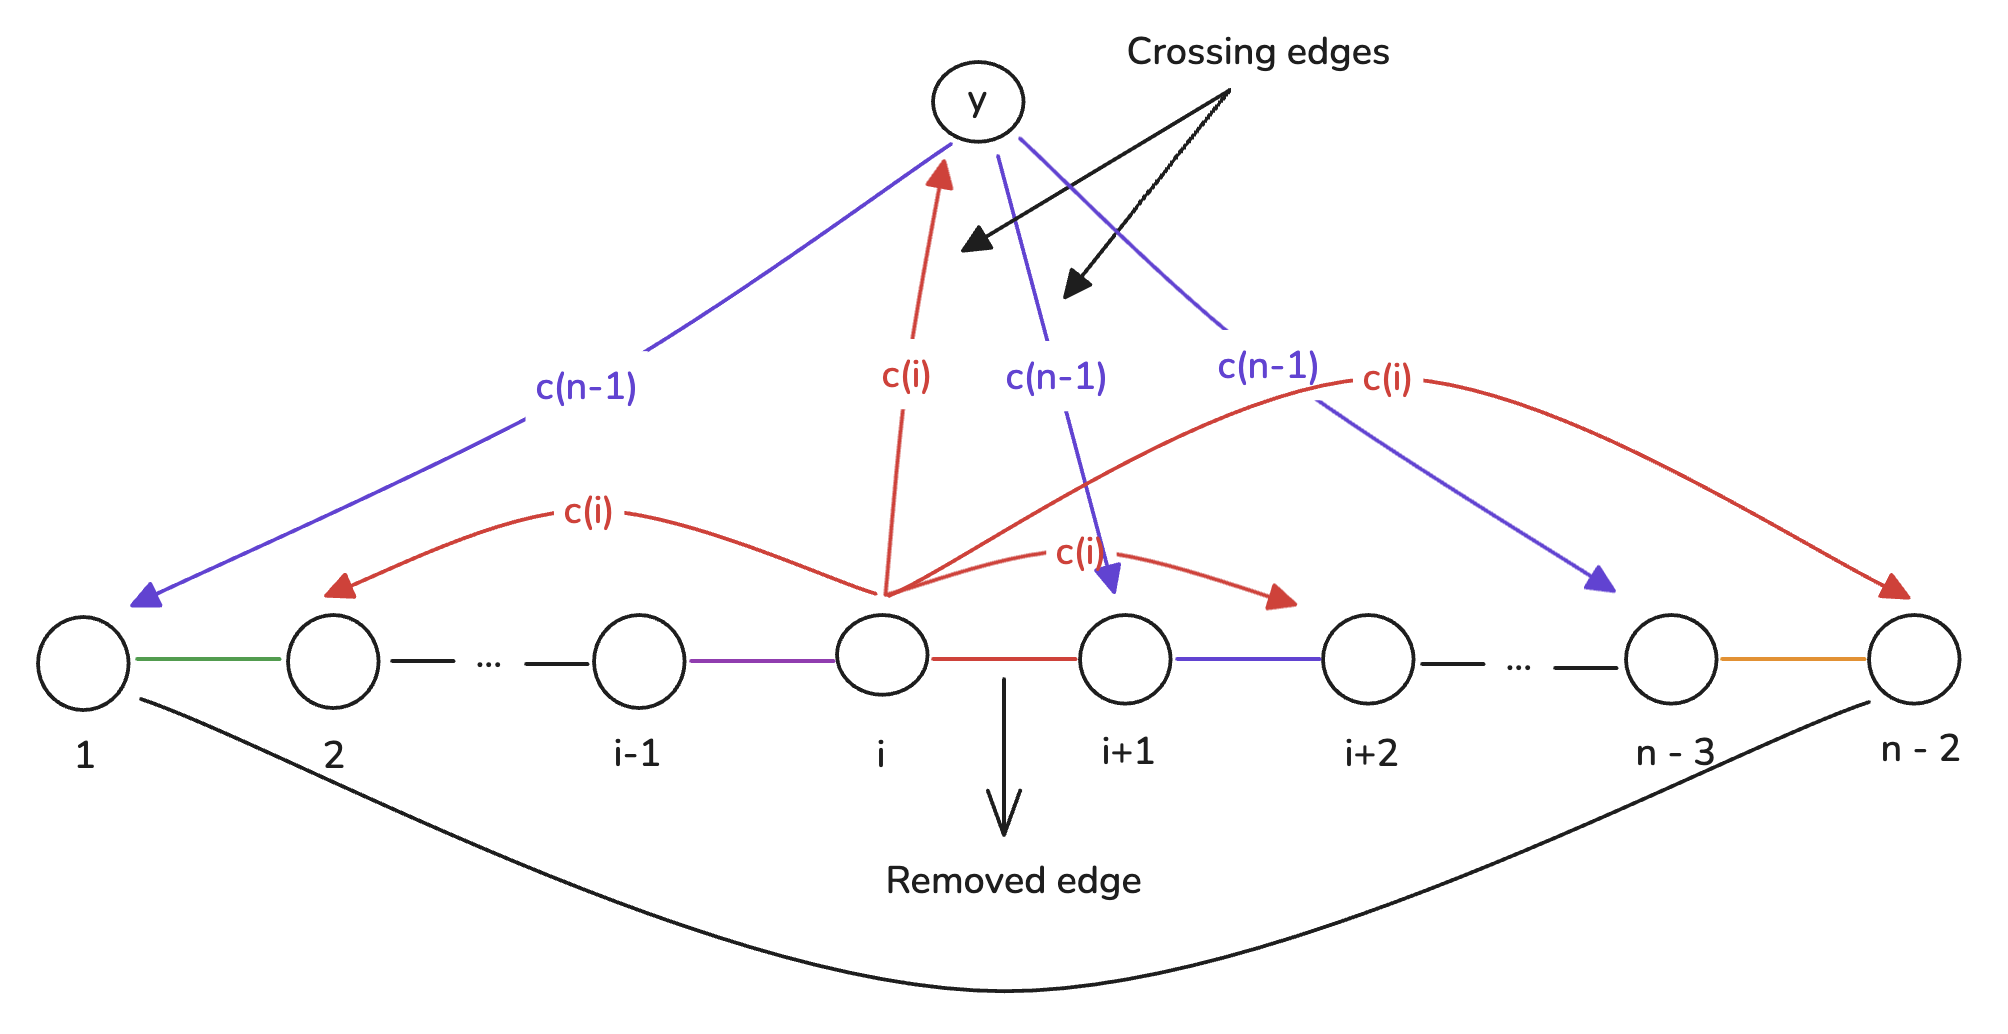
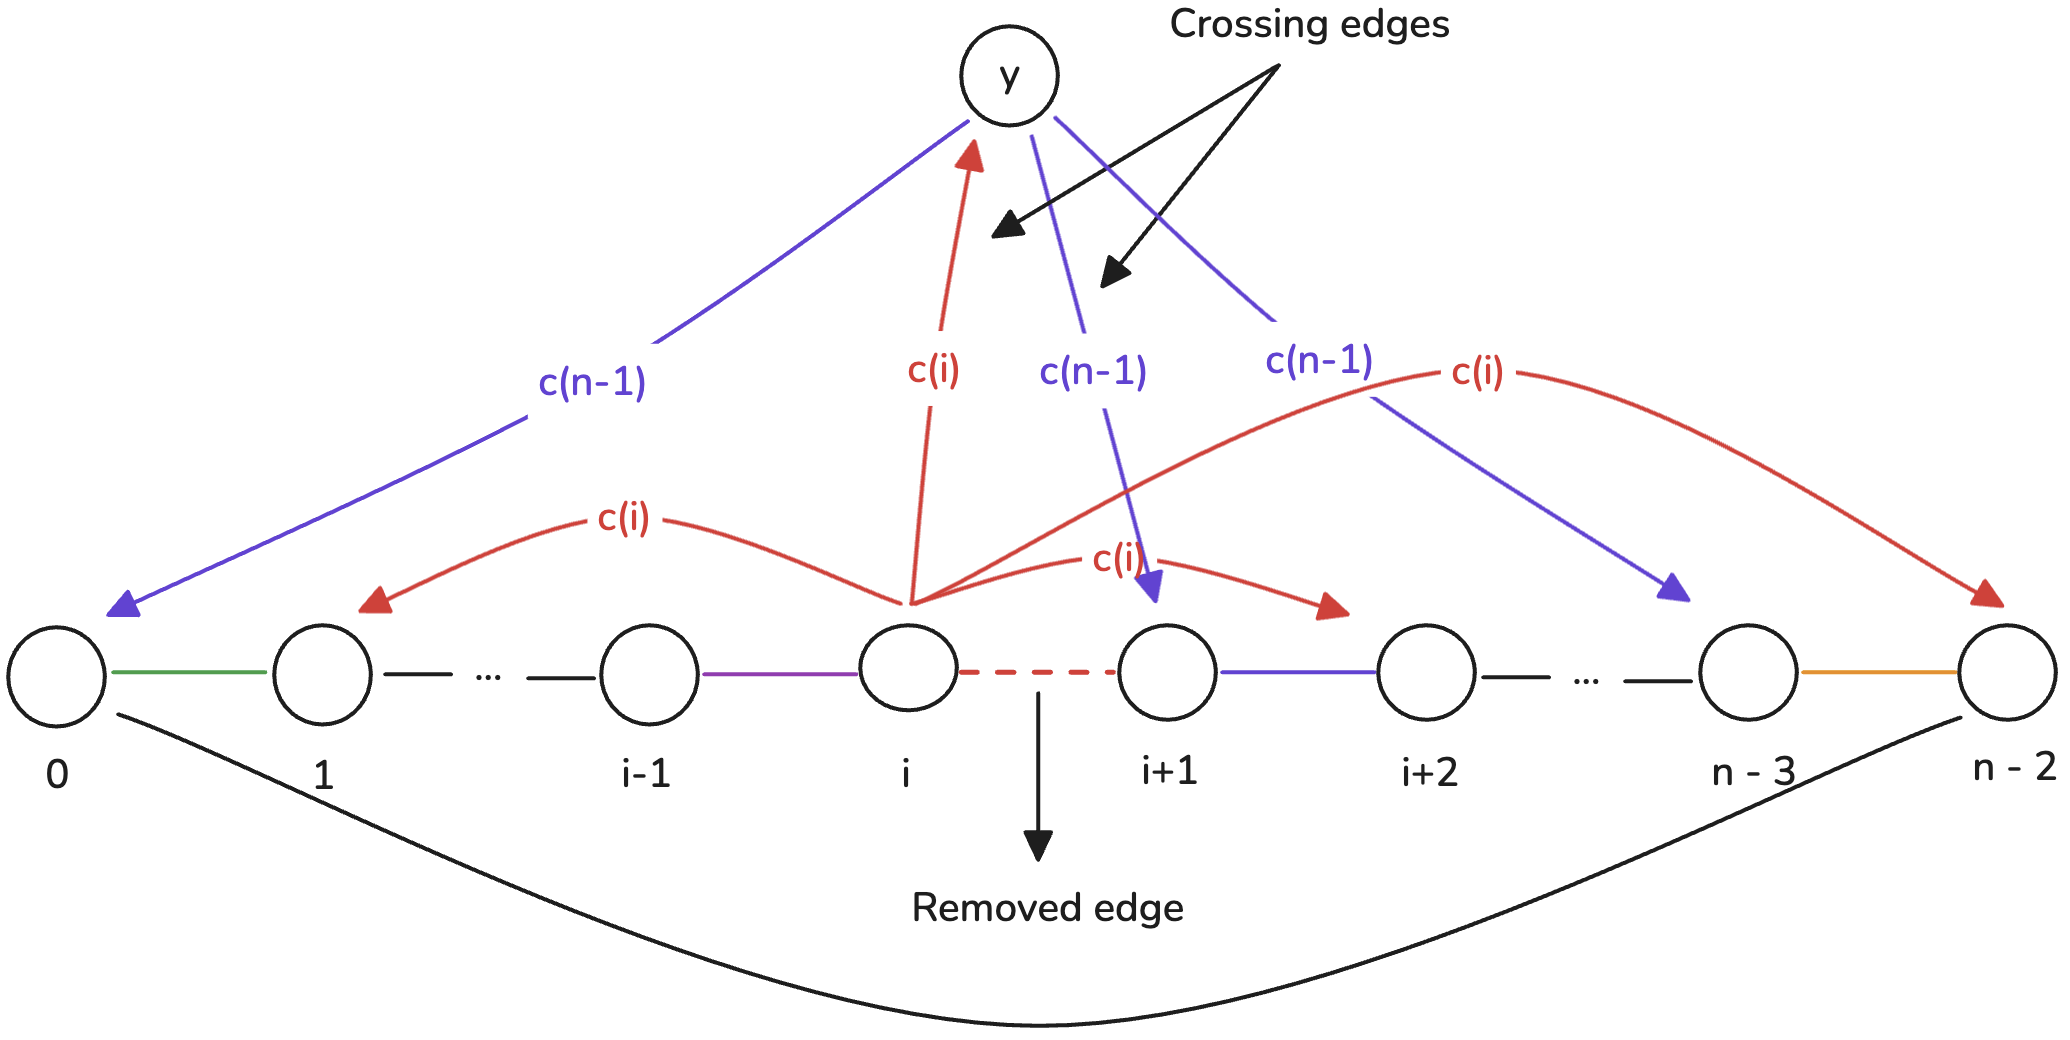
more improvements to case n-1

diff --git a/latex/conteudo/03-implementation.tex b/latex/conteudo/03-implementation.tex
@@ -502,8 +502,7 @@ Now, let's define the following variables:
     \item $\bar{I} \coloneqq \{i \in [n - 1]: \{y, x_{i+1}\} \in A(G_{cy})\}$
 \end{itemize}
 
-To effectively build these variables, we can iterate over the vertices of the cycle and iterate over it's adjacency list,
-such as the following algorithm:
+We can build these variables with the following algorithm:
 
 \begin{algorithm}[H]
     \caption{Part 2: Cycle Extension for \( l < n - 1 \). Building digraph variables, $I$ and $\bar{I}$}
@@ -539,13 +538,13 @@ such as the following algorithm:
     \end{algorithmic}
 \end{algorithm}
 
-The complexity of this algorithm is $O(n^2)$, as we need to iterate over the vertices of the cycle and iterate over 
-it's adjacency list for a specific color. 
+The time complexity of this algorithm is $O(n^2)$, as we need to iterate over the vertices of the cycle and iterate over 
+it's adjacency list for a specific color. The space complexity is $O(n^2)$, as we need to store the adjacency list of each vertex.
 
 Let's find the answer for the case $d^-_D(y) \geq \frac{n}{2}$. We have that 
 $|I| + |\bar{I}|  \geq d^-_D(y) +  \frac{n}{2} $. 
 Thus, from Dirichlet Principle, $I \cap \bar{I} \neq \emptyset$. In this case, we can build 
-a cycle of length $n$ with the following crossing, removing the edge $x_i$:
+a cycle of length $n$ with the following crossing, removing the edge $e_i$:
 
 % set scale
 \begin{figure}[H]
@@ -581,24 +580,23 @@ From now on, we will assume that $d^-_D(y) < \frac{n}{2}$. Here we will divide i
 \end{enumerate}
 
 Let's start with the first case. We may assume, WLOG, that $d^-_D(x_0) > \frac{n}{2} - 1$.
-For this, we can just find the vertex $x_i$ and rotate the cycle, such as the following algorithm:
+For considering this, we can just find the vertex with in-degree greater than $\frac{n}{2} - 1$ and rotate the cycle, such as the following algorithm:
 
 \begin{algorithm}[H]
     \caption{Part 4: Cycle Extension for \( l < n - 1 \). Case \( d^-_D(y) < \frac{n}{2} \)}
     \begin{algorithmic}[1]
         \Function{Extend\_Cycle}{$G, C$}
-            \For{$i \in [0, \dots, cycle\_size - 1]$}
-                \State $u \gets cycle.vertices[i]$
+            \For{$i \in [0, \dots, C.\text{size()} - 1]$}
+                \State $u \gets C.vertices[i]$
                 \If{$in\_degree[u] > \frac{n}{2} - 1$}
-                    \State $cycle.vertices \gets cycle.vertices[i:] + cycle.vertices[:i]$
-                    \State $cycle.edges \gets cycle.edges[i:] + cycle.edges[:i]$
+                    \State $C.vertices \gets C.vertices[i:] + C.vertices[:i]$
+                    \State $C.edges \gets C.edges[i:] + C.edges[:i]$
                 \EndIf
                 % # Rebuild the needed variables
-                \For{$j \in [0, \dots, cycle\_size - 1]$}
-                    \State $color \gets cycle.edges[j].color$
+                \For{$j \in [0, \dots, C.\text{size()} - 1]$}
+                    \State $color \gets C.edges[j].color$
                     \State $new\_color\_id[color] \gets j$
-                    \State $vertex\_position\_on\_cycle[cycle.vertices[j]] \gets j$
-                    \State $pos\_color\_cic[j] \gets color$
+                    \State $vertex\_position\_on\_cycle[C.vertices[j]] \gets j$
                 \EndFor
                 \State \textbf{break}
             \EndFor
@@ -607,17 +605,16 @@ For this, we can just find the vertex $x_i$ and rotate the cycle, such as the fo
 \end{algorithm}
 
 The time completity for this is just $O(n)$, as we iterate over the vertices and
-as soon as we find a vertex with in-degree greater than $\frac{n}{2} - 1$, we make 
-$O(n)$ operations to rebuild the needed variables and then we break.
+as soon as we find the desired vertex, we make $O(n)$ operations to rebuild the needed variables and then we break.
 
 Let's define the following variables:
 
 \begin{itemize}
-    \item $I_0 \coloneqq \{i \in [n - 1]: edge(x_i, y, c_0) \in E(G)\}$
-    \item $I_{n-1} \coloneqq \{i \in [n - 1]: edge(x_{i+1}, y, c_{n-1}) \in E(G)\}$
+    \item $I_0 \coloneqq \{i \in [n - 1]: \{x_i, y\} \in A(G_{c_0})\}$
+    \item $I_{n-1} \coloneqq \{i \in [n - 1]: \{y, x_{i+1}\} \in A(G_{c_{n-1}})\}$
 \end{itemize}
 
-We have that $I_0 + I_{n-1} \geq d_{G_0}(y) + d_{G_{n-1}}(y) \geq n$. Thus, 
+We have that $I_0 + I_{n-1} \geq d(0, y) + d(n-1, y) \geq n$. Thus, 
 from Dirichlet Principle, $I_0 \cap I_{n-1} \neq \emptyset$. Take $j \in I_0 \cap I_{n-1}$.
 If $j = 0$, we can just remove the edge $x_0$ and build the cycle of length $n$ 
 adding crossing edges $edge(x_0, y, c_0)$ and $edge(y, x_1, c_1)$. So, assume $j \neq 0$.
@@ -636,8 +633,8 @@ We are going to create the following variables to manipulate the path $P$:
 \begin{itemize}
     \item $removed\_color$: The color of the edge outside the path $P$, $C.edges[j].color$;
     \item $P\_vertices$: The vertices of the path $P$, $(x_1, x_2, \dots, x_{j}, y, x_{j+1}, \dots, x_{n-2}, x_{0})$;
-    \item $P\_edges$: The edges of the path $P$, $(e_1, e_2, \dots, e_{j}, e_{j+1}, \dots, e_{n-2}, e_{0})$;
-    \item $P\_pos$: An array to store the new position of each vertex on the path.
+    \item $P\_edges$: The edges of the path $P$, $(e_1, e_2, \dots, edge(x_j, y, e_0.color), edge(y, x_{j+1}, cy), \dots, e_{n-2}, e_{0})$;
+    \item $P\_pos$: An array to store the new index of each vertex on the path.
 \end{itemize}
 
 To compute these variables, we can use the following algorithm:
@@ -666,8 +663,8 @@ To compute these variables, we can use the following algorithm:
                     \State $\hspace{4.3em} \gets [C.vertices[0]]$
 
                     \State $P\_edges \gets C.edges[1:j] +$
-                    \State $\hspace{4.1em} \gets [G.get\_edge(C.vertices[j], y, pos\_color\_cic[0])] +$
-                    \State $\hspace{4.1em} \gets [G.get\_edge(y, C.vertices[(j + 1) \bmod n], cy)] +$
+                    \State $\hspace{4.1em} \gets [get\_edge(G, C.vertices[j], y, C.edges[0].color)] +$
+                    \State $\hspace{4.1em} \gets [get\_edge(G, y, C.vertices[(j + 1) \bmod n], cy)] +$
                     \State $\hspace{4.1em} \gets C.edges[j+1:n]$
 
                     \For{$j \in [0, \dots, n-1]$}
